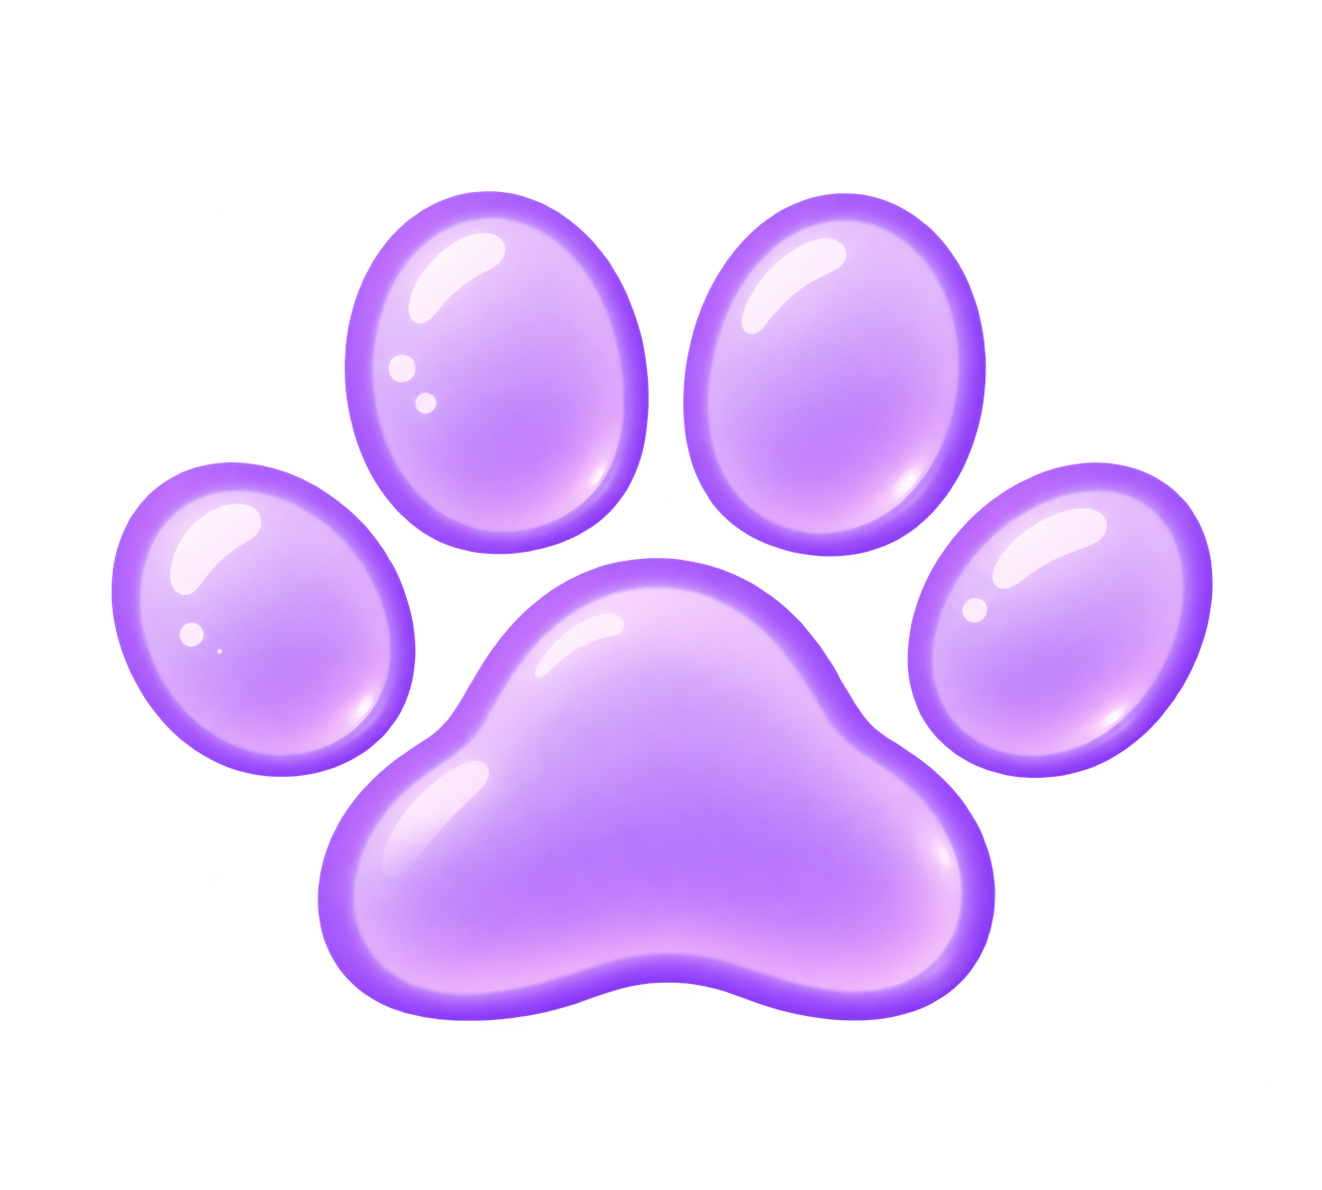
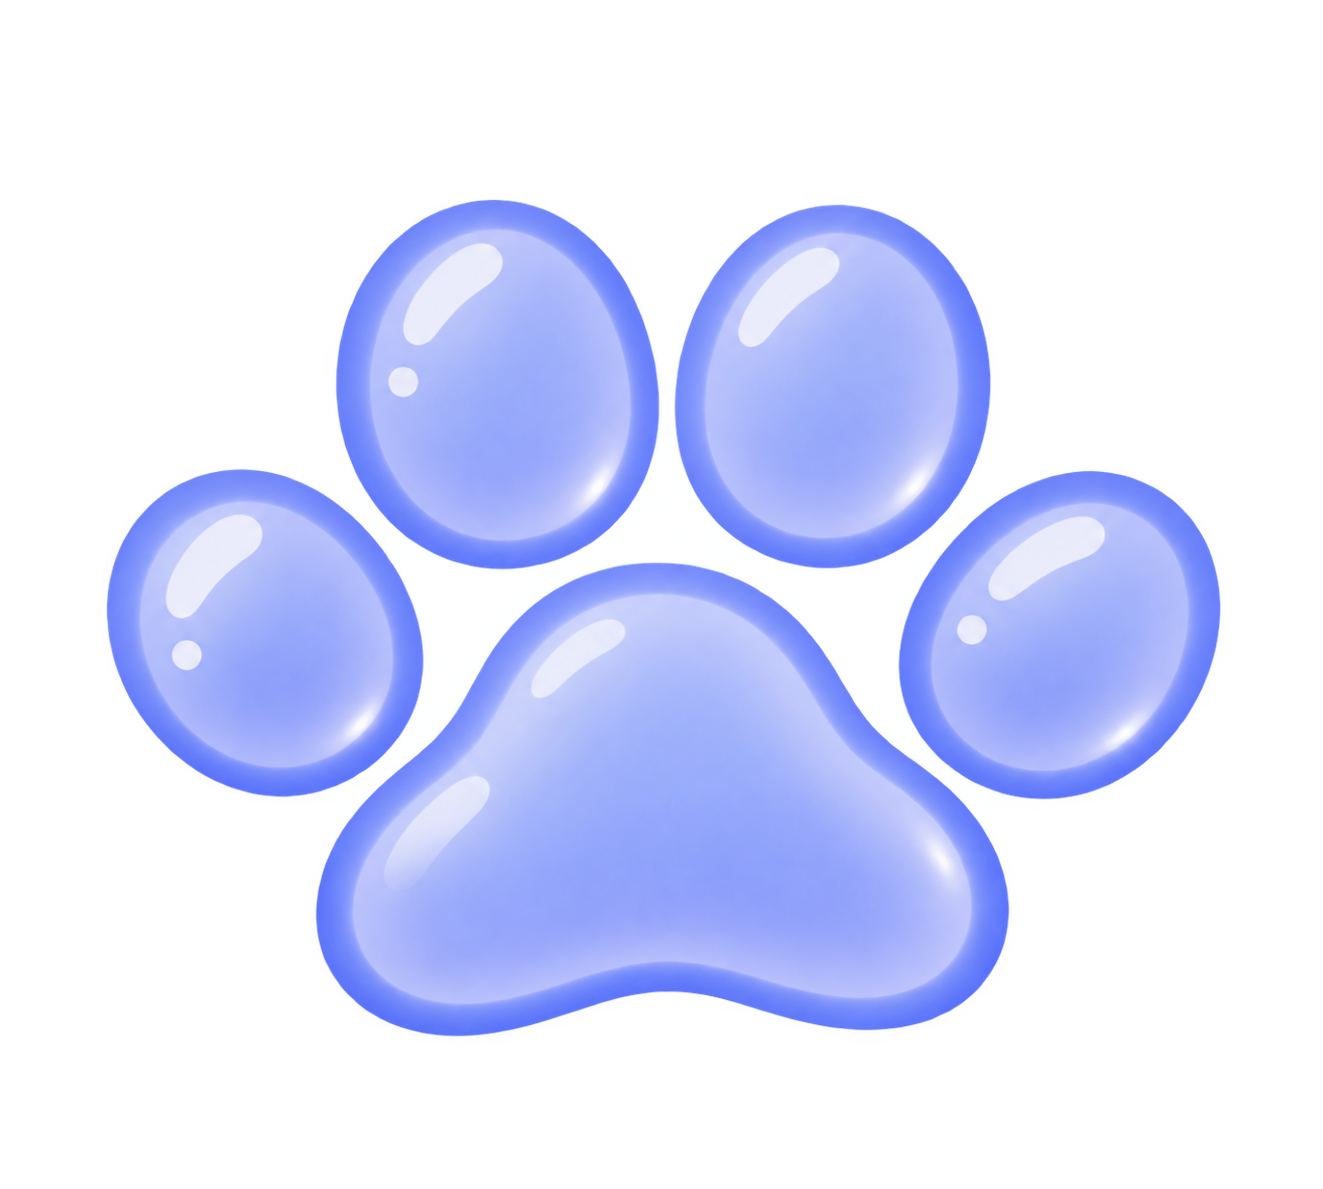
Add files via upload

diff --git a/index.html b/index.html
@@ -88,7 +88,7 @@
     .brand{
       display:flex;
       align-items:center;
-      gap:10px;
+      gap:5px;
       font-size:22px;
       font-weight:800;
       letter-spacing:-.04em;
